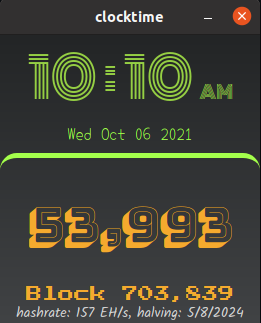
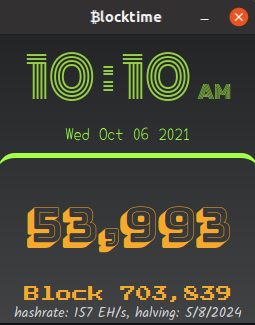
renamed

diff --git a/readme.md b/readme.md
@@ -3,7 +3,7 @@
 
 <br>
 
-## clocktime
+## ₿locktime
 
 desktop app built with electronjs, cross-platform compatibility
 
